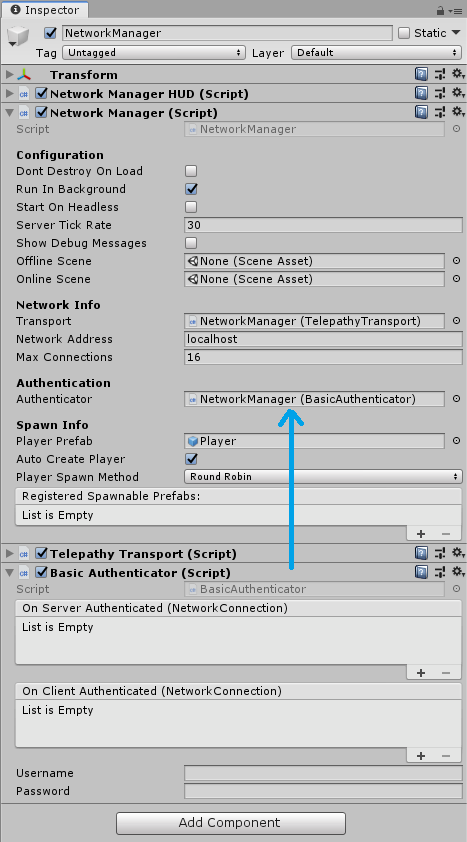
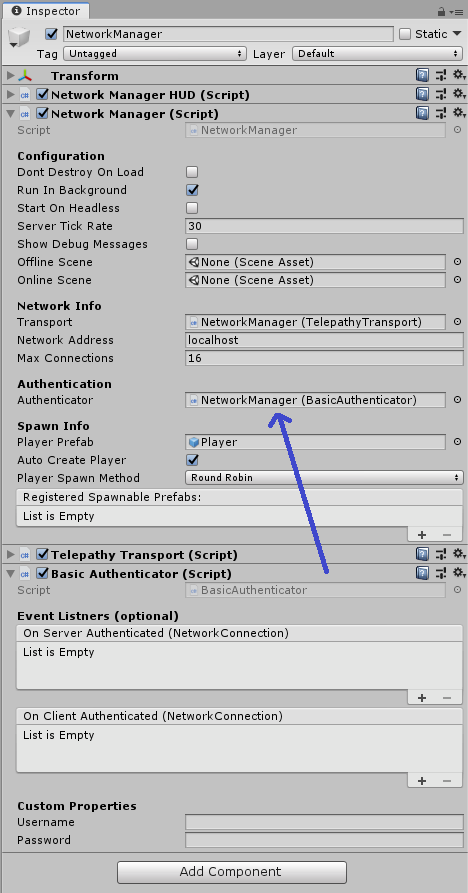
Added inspector header and tooltips

Changed region(s): [[0.0, 0.0, 1.0, 1.0]]

diff --git a/Assets/Mirror/Runtime/Authentication/Authenticator.cs b/Assets/Mirror/Runtime/Authentication/Authenticator.cs
@@ -14,14 +14,18 @@ namespace Mirror
     /// </summary>
     public abstract class Authenticator : MonoBehaviour
     {
+        [Header("Event Listners (optional)")]
+
         /// <summary>
         /// Notify subscribers on the server when a client is authenticated
         /// </summary>
+        [Tooltip("Mirror has an internal subscriber to this event. You can add your own here.")]
         public UnityEventConnection OnServerAuthenticated = new UnityEventConnection();
 
         /// <summary>
         /// Notify subscribers on the client when a client is authenticated
         /// </summary>
+        [Tooltip("Mirror has an internal subscriber to this event. You can add your own here.")]
         public UnityEventConnection OnClientAuthenticated = new UnityEventConnection();
 
         /// <summary>

diff --git a/doc/articles/Concepts/Authentication.md b/doc/articles/Concepts/Authentication.md
@@ -94,6 +94,8 @@ using Mirror;
 
 public class BasicAuthenticator : Authenticator
 {
+    [Header("Custom Properties")]
+
     // for demo purposes, set these in the inspector
     public string username;
     public string password;
